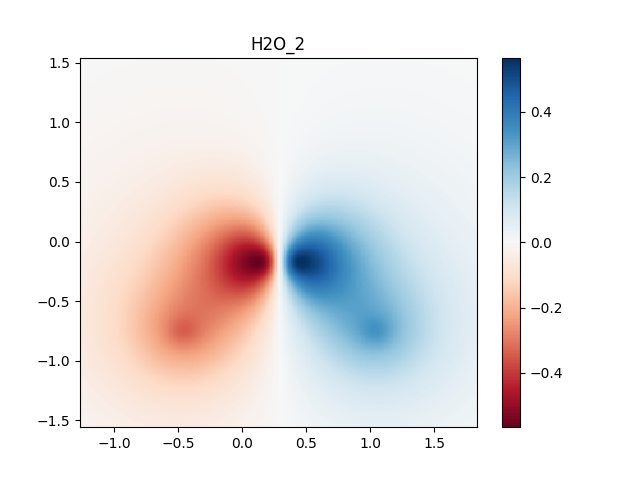
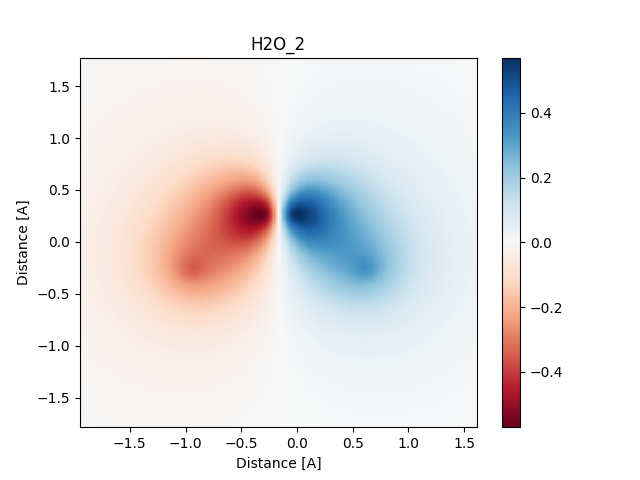
compare basis set feature

diff --git a/src/OutputCreator.cpp b/src/OutputCreator.cpp
@@ -43,6 +43,22 @@ void OutputCreator::createOutputFile(Logger & logger, Mol & mol, InputParser & p
     logger.log("--------------------------------------------------------------\n");
 }
 
+void OutputCreator::createOutputFileCompare(Logger & logger, Mol & molA, Mol & B, InputParser & parser)
+{
+    logger.log("--------------------------------------------------------------\n");
+    logger.log("-------------------- Results for molecule --------------------\n");
+    logger.log("--------------------------------------------------------------\n");
+    logger.log("-------------------------- Input -----------------------------\n");
+    logger.log(parser.getInput());
+    logger.log("--------------------------------------------------------------\n");
+    logger.log("MOLECULE TOTAL ENERGY A:\t");
+    logger.log(std::to_string(molA.getTotalEnergy()));
+    logger.log("\n");
+    logger.log("MOLECULE TOTAL ENERGY B:\t");
+    logger.log(std::to_string(B.getTotalEnergy()));
+    logger.log("\n");
+}
+
 void OutputCreator::createMOPlainFiles(Mol & mol, InputParser & parser)
 {
     double minX =1000;
@@ -134,6 +150,104 @@ void OutputCreator::createMOPlainFiles(Mol & mol, InputParser & parser)
                 }
 
 				auto v = mol.countMolecularFunction(i, { x,y,z });
+				file << v <<"\n";
+			}
+		}
+		file.close();
+	}
+}
+
+void OutputCreator::createMOPlainFilesCompare(Mol & molA, Mol & molB, InputParser & parser)
+{
+    double minX =1000;
+    double minY =1000;
+    double maxX =-1000;
+    double maxY =-1000;
+
+    for (int i = 0; i < parser.getNucleons().size(); i++)
+    {
+        if(parser.getPlane()==InputParser::Plane::XY || parser.getPlane()==InputParser::Plane::XZ)
+        {
+            if(parser.getNucleons()[i].p.x < minX)
+                minX = parser.getNucleons()[i].p.x;
+            if(parser.getNucleons()[i].p.x > maxX)
+                maxX = parser.getNucleons()[i].p.x;
+        }
+        else
+        {
+            if(parser.getNucleons()[i].p.y < minX)
+                minX = parser.getNucleons()[i].p.y;
+            if(parser.getNucleons()[i].p.y > maxX)
+                maxX = parser.getNucleons()[i].p.y;
+        }
+        
+        if(parser.getPlane()==InputParser::Plane::XY)
+        {
+            if(parser.getNucleons()[i].p.y < minY)
+                minY = parser.getNucleons()[i].p.y;
+            if(parser.getNucleons()[i].p.y > maxY)
+                maxY = parser.getNucleons()[i].p.y;
+        }
+        else
+        {
+            if(parser.getNucleons()[i].p.z < minY)
+                minY = parser.getNucleons()[i].p.z;
+            if(parser.getNucleons()[i].p.z > maxY)
+                maxY = parser.getNucleons()[i].p.z;
+        }   
+
+    }
+    
+    minX -=1.0;
+    maxX +=1.0;
+    minY -=1.0;
+    maxY +=1.0;
+
+    _xPoints = (maxX-minX)/parser.getSameplDensity();
+    _yPoints = (maxY-minY)/parser.getSameplDensity();
+    if(_xPoints < _yPoints)
+    {
+        _xMin = minX - (_yPoints-_xPoints)*parser.getSameplDensity()/2;
+        minX = _xMin;
+        _xPoints = _yPoints;
+        _yMin = minY;
+    }       
+    else
+    {   
+        _yMin = minY - (_xPoints-_yPoints)*parser.getSameplDensity()/2;
+        minY = _yMin;
+        _yPoints = _xPoints;
+        _xMin = minX;
+    }
+
+    for (int i = 0; i < molA.getMOcount(); i++)
+	{
+		std::fstream file("int/plain_"+ std::to_string(i) + ".txt", std::ios::trunc | std::ios::out);
+		for(int j = 0; j < _xPoints; j++)
+		{
+			for(int k = 0; k < _yPoints; k++)
+			{
+                double x,y,z;
+                if(parser.getPlane()==InputParser::Plane::XY)
+                {
+                    x = minX + j * parser.getSameplDensity();
+                    y = minY + k * parser.getSameplDensity();
+                    z = parser.getShift();
+                }
+                else if(parser.getPlane()==InputParser::Plane::XZ)
+                {
+                    x = minX + j * parser.getSameplDensity();
+                    z = minY + k * parser.getSameplDensity();
+                    y = parser.getShift();
+                }
+                else if(parser.getPlane()==InputParser::Plane::YZ)
+                {
+                    y = minX + j * parser.getSameplDensity();
+                    z = minY + k * parser.getSameplDensity();
+                    x = parser.getShift();
+                }
+
+				auto v = (molA.countMolecularFunction(i, { x,y,z })) - (molB.countMolecularFunction(i, { x,y,z }));
 				file << v <<"\n";
 			}
 		}
@@ -263,5 +377,15 @@ void OutputCreator::createScriptOutputFile(Mol & mol, InputParser & parser)
     file << parser.getMOName()<<"\n";
 
     
+    file.close();
+}
+
+void OutputCreator::createScriptOutputFileCompare(Mol & molA, Mol & molB, InputParser & parser)
+{
+    std::fstream file("int/pyinp.txt", std::ios::trunc | std::ios::out);
+    file << "p\n";
+    file << molA.getMOcount()<<"\n";
+    file << _xMin<<"\n"<<_yMin<<"\n"<<_xPoints<<"\n"<<_yPoints<<"\n"<<parser.getSameplDensity()<<"\n";
+    file << parser.getMOName()<<"\n";  
     file.close();
 }

diff --git a/src/App.cpp b/src/App.cpp
@@ -3,16 +3,21 @@
 void App::run(const std::string & inputFile, const std::string & outputFile)
 {
     _parser.parse(inputFile);
+    if(_parser.getCompareFlag())
+        compareBasisComputation(outputFile, _parser);
+    else
+        singlePointComputation(outputFile, _parser);
+}
 
-    _logger.open(outputFile);
+
+void App::singlePointComputation(const std::string & outputFile, const InputParser & parser)
+{
+     _logger.open(outputFile);
 
     Mol mol{_parser.getNucleons()};
 
     if(_parser.getMOCount() != -1)
         mol.setMOcount(_parser.getMOCount());
-
-    if(_parser.getApproxFlag())
-        mol.setApproxIntegrals(true);
 
     mol.HFComputation(_logger, _parser.getOptFlag());
     if(_parser.getDGraphFlag() || _parser.getMOGraphFlag())
@@ -25,17 +30,29 @@ void App::run(const std::string & inputFile, const std::string & outputFile)
         _outputCreator.createDPlainFile(mol, _parser);
 
     _outputCreator.createScriptOutputFile(mol, _parser);
-
-    
 }
 
-
-void App::singlePointComputation()
+void App::compareBasisComputation(const std::string & outputFile, const InputParser & parser)
 {
+     _logger.open(outputFile);
 
-}
+    Mol molA{_parser.getNucleons()};
+    Mol molB{_parser.getNucleons()};
 
-void App::opt2Computation()
-{
-    
+    if(_parser.getMOCount() != -1)
+    {
+        molA.setMOcount(_parser.getMOCount());
+        molB.setMOcount(_parser.getMOCount());
+    }       
+
+    molA.HFComputation(_logger, true);
+    molB.HFComputation(_logger, false);
+
+    _logger.say("Drawing compare plot and finishing (for big molecules up to few minutes)\n");
+    _outputCreator.createOutputFileCompare(_logger, molA, molB, _parser);
+    _logger.close();
+
+    _outputCreator.createMOPlainFilesCompare(molA, molB, _parser);
+
+    _outputCreator.createScriptOutputFileCompare(molA, molB, _parser);
 }

diff --git a/src/InputParser.cpp b/src/InputParser.cpp
@@ -91,9 +91,9 @@ std::string InputParser::getInput()const
     return _input;
 }
 
-bool InputParser::getApproxFlag()const
+bool InputParser::getCompareFlag()const
 {
-    return _approxFarIntegrals;
+    return _twoBasisComputation;
 }
 bool InputParser::getOptFlag()const
 {
@@ -116,6 +116,8 @@ std::string InputParser::readHeader(std::ifstream & file)
         ;
     else if(tmp == "HF2")
         _HFOPT2 = true;
+    else if(tmp == "HFC")
+        _twoBasisComputation = true;
     else
         throw InputFileException();
     
@@ -126,8 +128,6 @@ std::string InputParser::readHeader(std::ifstream & file)
             _MOGRAPHS = true;
         else if(tmp == "DENSITY_GRAPH")
             _DGRAPH = true;
-        else if(tmp == "APPROX")
-            _approxFarIntegrals = true;
     }
     return tmp;
 }

diff --git a/include/OutputCreator.h b/include/OutputCreator.h
@@ -17,11 +17,17 @@ public:
 
     void createOutputFile(Logger & logger, Mol & mol, InputParser & parser);
 
+    void createOutputFileCompare(Logger & logger, Mol & molA, Mol & B, InputParser & parser);
+
     void createMOPlainFiles(Mol & mol, InputParser & parser);
+
+    void createMOPlainFilesCompare(Mol & molA, Mol & molB, InputParser & parser);
 
     void createDPlainFile(Mol & mol, InputParser & parser);
 
     void createScriptOutputFile(Mol & mol, InputParser & parser);
+
+    void createScriptOutputFileCompare(Mol & molA, Mol & molB, InputParser & parser);
 
 private:
 

diff --git a/include/InputParser.h b/include/InputParser.h
@@ -44,7 +44,7 @@ public:
 
     std::string getInput()const;
 
-    bool getApproxFlag()const;
+    bool getCompareFlag()const;
     bool getOptFlag()const;
     bool getMOGraphFlag()const;
     bool getDGraphFlag()const;
@@ -68,7 +68,7 @@ private:
     
     //flags
 
-    bool _approxFarIntegrals{false};
+    bool _twoBasisComputation{false};
     bool _HFOPT2{false};
     bool _MOGRAPHS{false};
     bool _DGRAPH{false};

diff --git a/include/App.h b/include/App.h
@@ -23,8 +23,8 @@ private:
 
 private:
 
-    void singlePointComputation();
+    void singlePointComputation(const std::string & outputFile, const InputParser & parser);
 
-    void opt2Computation();
+    void compareBasisComputation(const std::string & outputFile, const InputParser & parser);
 
 };
